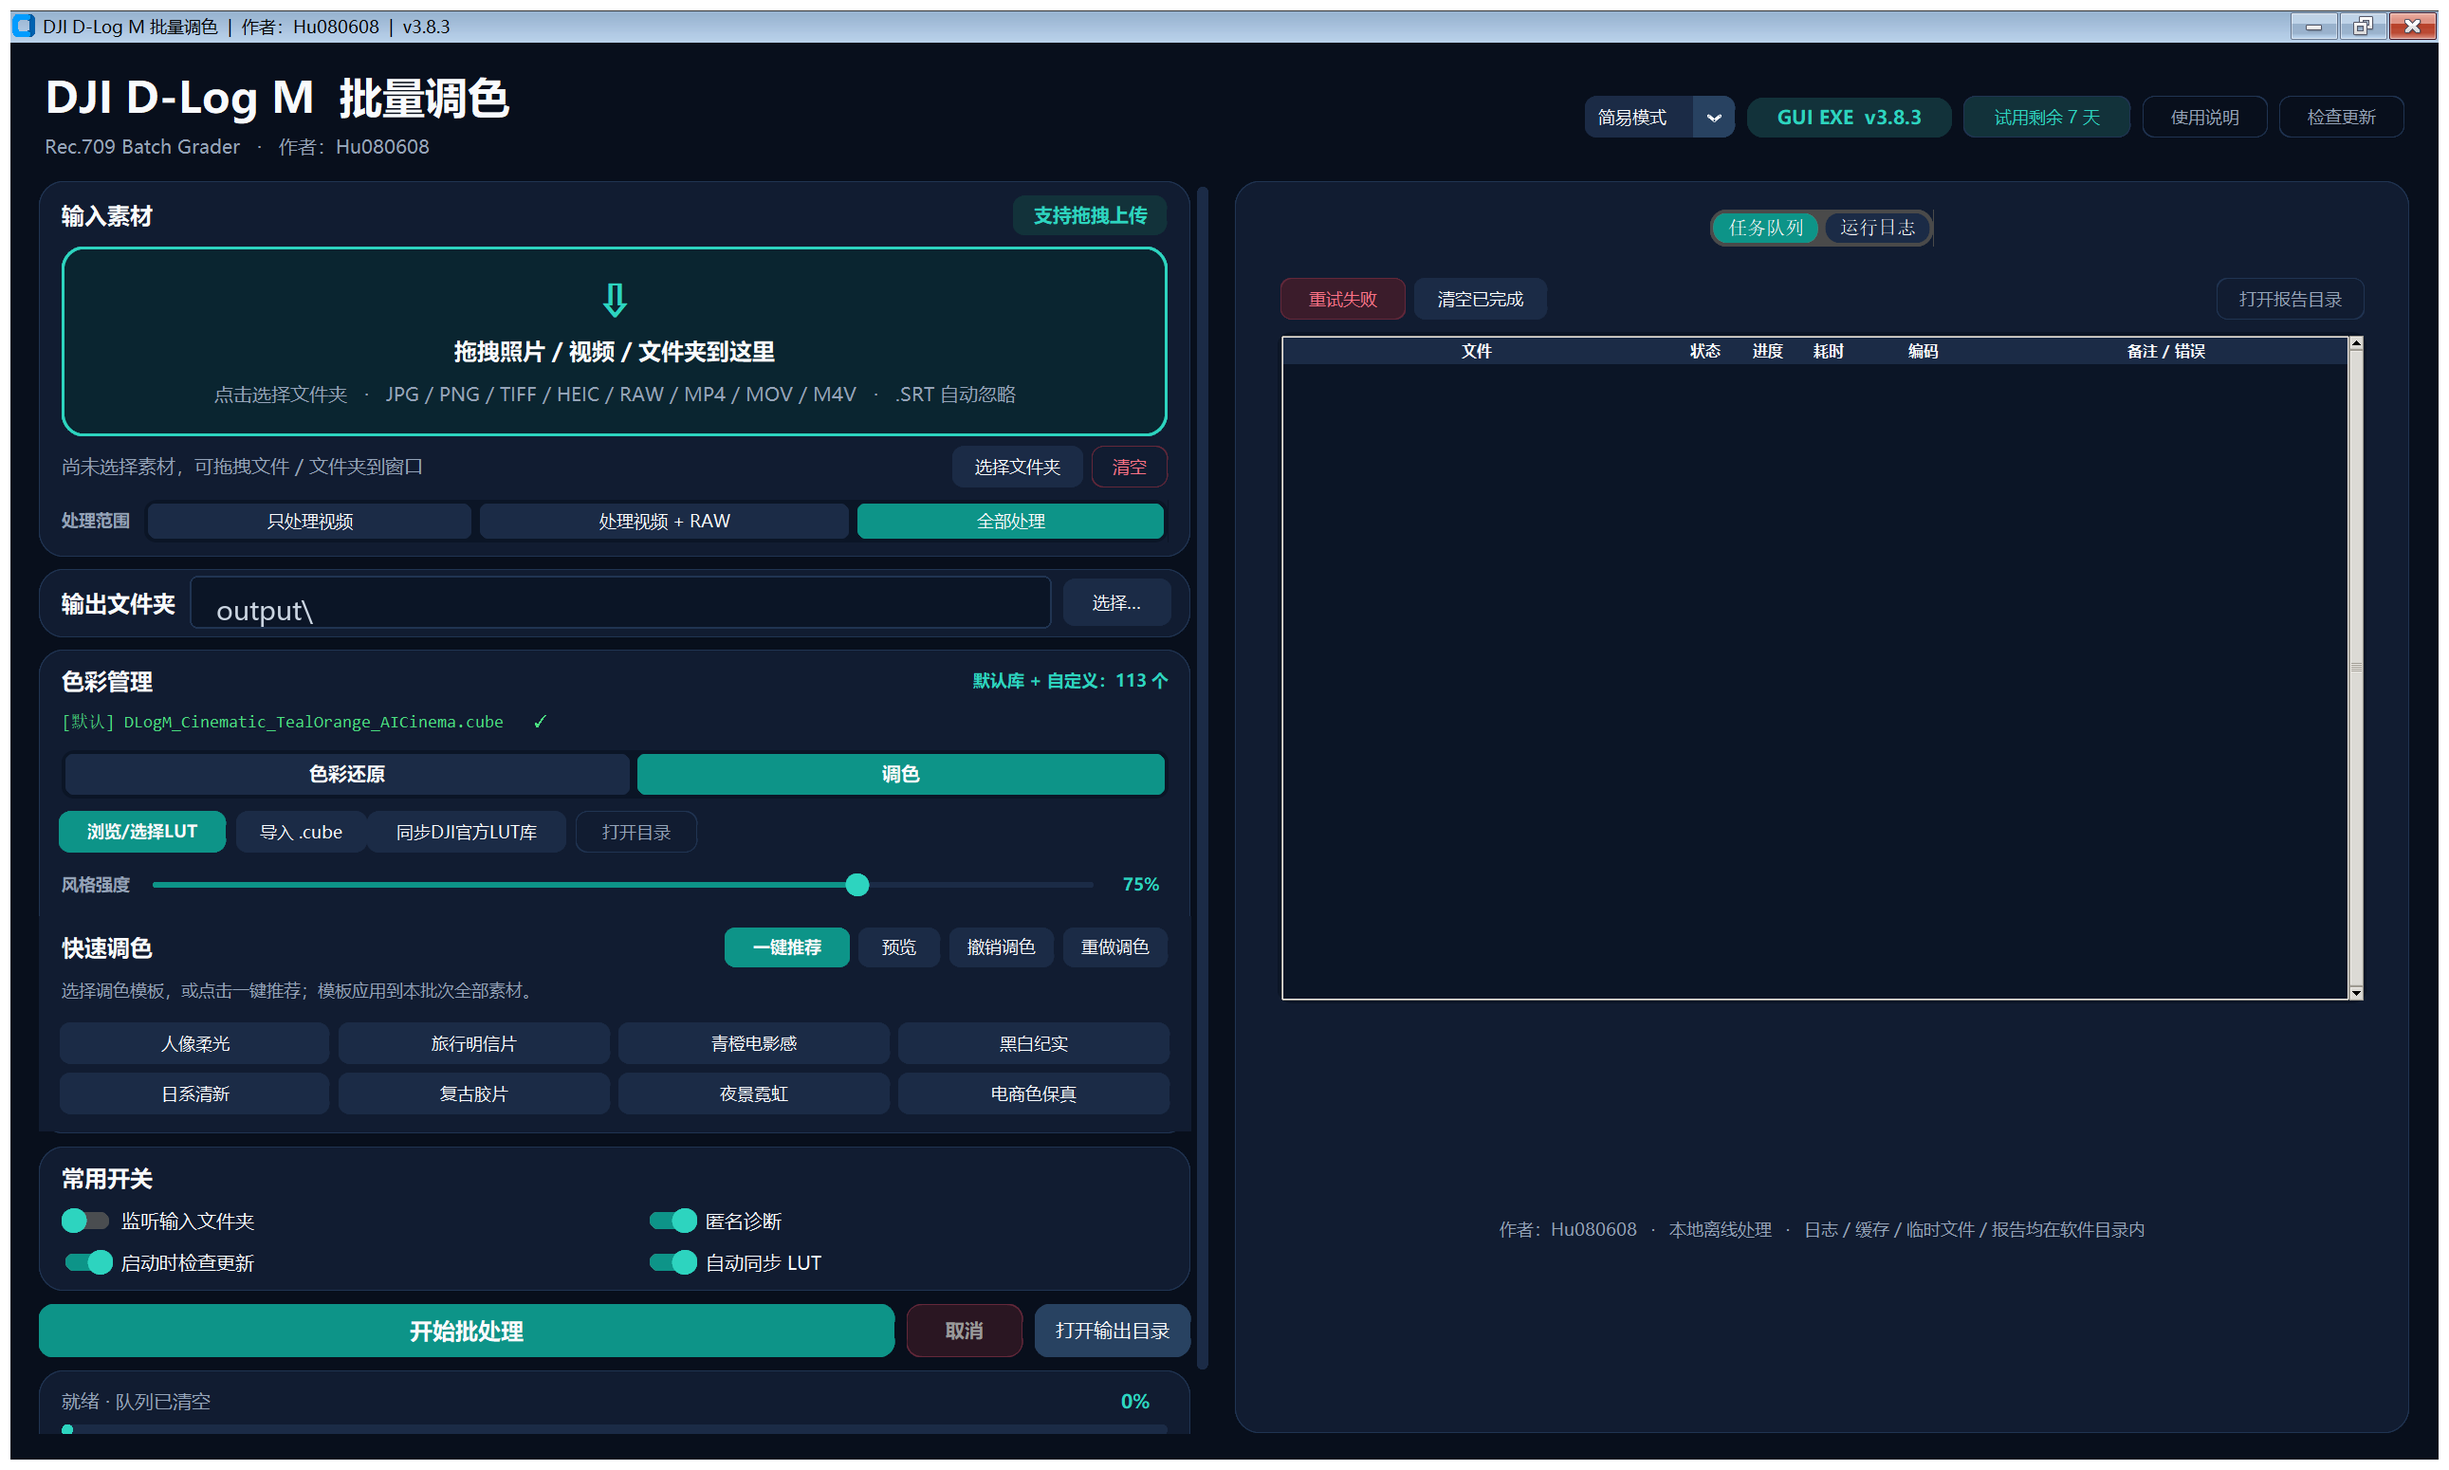
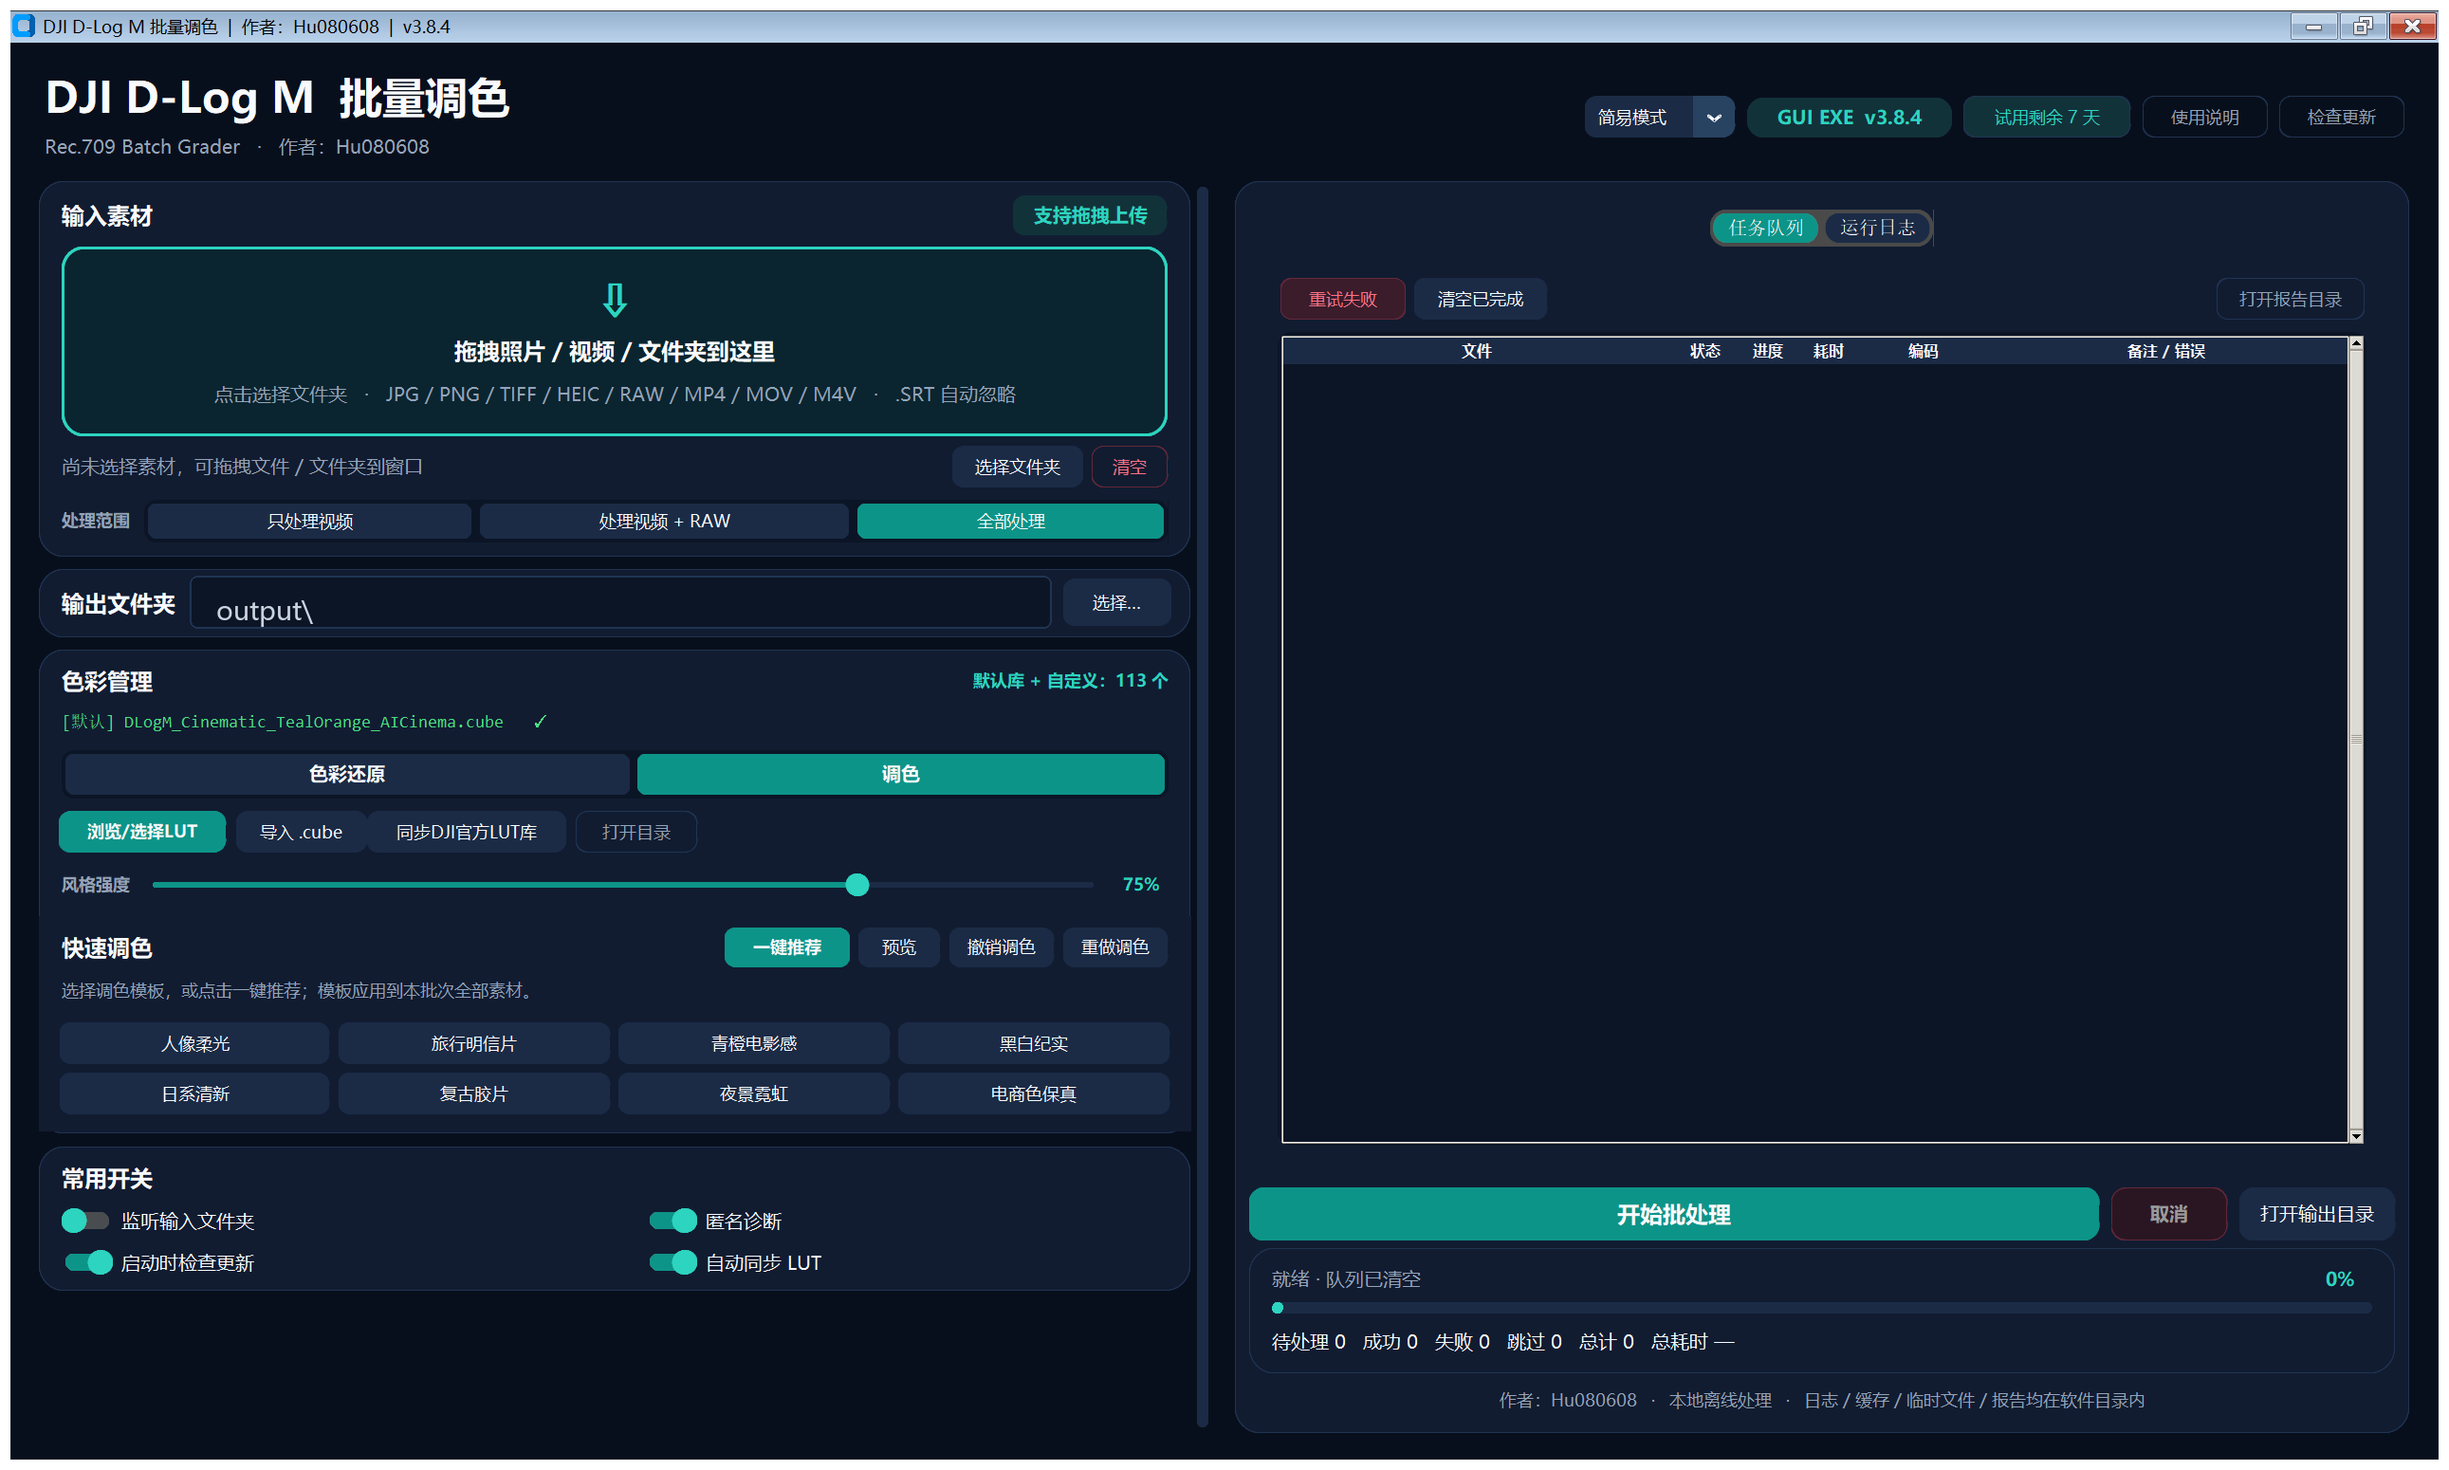
feat: move action and progress area to right bottom

Changed region(s): [[0.0, 0.8671, 0.4957, 0.991], [0.4957, 0.8052, 0.9605, 0.96], [0.9605, 0.6813, 0.9915, 0.7742]]

diff --git a/dlog_grader/gui.py b/dlog_grader/gui.py
@@ -352,16 +352,16 @@ class GraderGUI:
         )
         right.grid(row=0, column=1, sticky="nsew")
         right.grid_columnconfigure(0, weight=1)
-        right.grid_rowconfigure(1, weight=1)
+        right.grid_rowconfigure(0, weight=1)
 
         self._build_source_card(scroll)
         self._build_output_card(scroll)
         self._build_lut_card(scroll)
         self._build_settings_card(scroll)
         self._build_aux_card(scroll)
-        self._build_actions(scroll, row=5)
-        self._build_progress_card(scroll, row=6)
         self._build_log_panel(right)
+        self._build_actions(right, row=1)
+        self._build_progress_card(right, row=2)
         self._apply_mode_visibility()
         self.root.bind("<Control-z>", lambda _event: self._undo_lut())
         self.root.bind("<Control-y>", lambda _event: self._redo_lut())
@@ -913,7 +913,7 @@ class GraderGUI:
 
     def _build_actions(self, parent, row: int = 4) -> None:
         actions = ctk.CTkFrame(parent, fg_color="transparent")
-        actions.grid(row=row, column=0, sticky="ew", pady=(0, 9))
+        actions.grid(row=row, column=0, sticky="ew", padx=10, pady=(4, 5))
         actions.grid_columnconfigure(0, weight=1)
         self.start_btn = ctk.CTkButton(
             actions, text="开始批处理", height=38, corner_radius=11,
@@ -937,7 +937,7 @@ class GraderGUI:
 
     def _build_progress_card(self, parent, row: int = 5) -> None:
         card = self._card(parent)
-        card.grid(row=row, column=0, sticky="ew")
+        card.grid(row=row, column=0, sticky="ew", padx=10, pady=(0, 5))
         card.grid_columnconfigure(0, weight=1)
         top = ctk.CTkFrame(card, fg_color="transparent")
         top.grid(row=0, column=0, sticky="ew", padx=16, pady=(8, 2))
@@ -1066,7 +1066,7 @@ class GraderGUI:
             parent,
             text="作者：Hu080608   ·   本地离线处理   ·   日志 / 缓存 / 临时文件 / 报告均在软件目录内",
             font=FONT_SMALL, text_color=MUTED,
-        ).grid(row=1, column=0, pady=(0, 10))
+        ).grid(row=3, column=0, pady=(0, 10))
 
     def _maximize_window(self) -> None:
         try:

diff --git a/dlog_grader/__init__.py b/dlog_grader/__init__.py
@@ -1,3 +1,3 @@
 """DJI D-Log M batch LUT grading application."""
 
-__version__ = "3.8.3"
+__version__ = "3.8.4"

diff --git a/docs/RELEASE_NOTES.md b/docs/RELEASE_NOTES.md
@@ -1,10 +1,17 @@
-# DJI D-Log M Batch Grader v3.8.3
+# DJI D-Log M Batch Grader v3.8.4
 
 <!-- UPDATE_SUMMARY_START -->
-- “常用开关”在简易模式也常驻显示：监听输入、匿名诊断、启动检查更新、自动同步 LUT。
-- “撤销/重做”改名为“撤销调色/重做调色”。
-- “浏览/选择LUT”移到“导入 .cube”前；“同步DJI官方LUT库”始终可用。
+- 开始批处理、取消、打开输出目录和进度区移动到右侧底部。
+- 左侧只保留素材、色彩管理、处理设置和常用开关。
+- 启动按钮和进度反馈与任务队列同区显示。
 <!-- UPDATE_SUMMARY_END -->
+
+## 右侧底部操作区
+
+- “开始批处理”“取消”“打开输出目录”移动到任务队列下方。
+- 进度条、当前状态、统计和总耗时同步移动到右下角。
+- 左侧主要保留输入、输出、色彩管理和设置区域。
+- 任务队列、操作按钮和进度反馈集中在右侧，便于观察执行状态。
 
 ## 简易模式与按钮调整
 
@@ -182,8 +189,8 @@
 - 应用更新唯一来源：GitHub Releases。
 - 发布资产：
   ```text
-  DJI_DLogM_BatchGrader_Windows_x64_v3.8.3.zip
-  DJI_DLogM_BatchGrader_Windows_x64_v3.8.3.zip.sha256
+  DJI_DLogM_BatchGrader_Windows_x64_v3.8.4.zip
+  DJI_DLogM_BatchGrader_Windows_x64_v3.8.4.zip.sha256
   ```
 - GitHub 公开仓库仅用于软件下载、用户文档和问题反馈；源码、私钥和授权签发工具不上传。
 

diff --git a/docs/GITHUB_RELEASES.md b/docs/GITHUB_RELEASES.md
@@ -16,14 +16,14 @@ https://github.com/Hu080608/DJI-BatchGrader/releases
 每次发布使用一个版本标签，例如：
 
 ```text
-v3.8.3
+v3.8.4
 ```
 
 发布资产必须包含：
 
 ```text
-DJI_DLogM_BatchGrader_Windows_x64_v3.8.3.zip
-DJI_DLogM_BatchGrader_Windows_x64_v3.8.3.zip.sha256
+DJI_DLogM_BatchGrader_Windows_x64_v3.8.4.zip
+DJI_DLogM_BatchGrader_Windows_x64_v3.8.4.zip.sha256
 ```
 
 - ZIP 内根目录必须是 `DJI_DLogM_BatchGrader/`
@@ -81,7 +81,7 @@ DJI_DLogM_BatchGrader_Windows_x64_v3.8.3.zip.sha256
 ## 本地打包脚本
 
 ```powershell
-powershell -ExecutionPolicy Bypass -File tools\package_release.ps1 -Version v3.8.3
+powershell -ExecutionPolicy Bypass -File tools\package_release.ps1 -Version v3.8.4
 ```
 
 脚本会从 `dist\DJI_DLogM_BatchGrader` 生成 ZIP 和 `.sha256` 到 `release\`。公开 GitHub 仓库不包含源码，发布包由本地受控构建上传。

diff --git a/README.md b/README.md
@@ -1,7 +1,7 @@
 # DJI D-Log M Batch Grader
 
 **作者：Hu080608**  
-**版本：3.8.3**  
+**版本：3.8.4**  
 **平台：Windows 10/11 x64**  
 **许可：商业软件，买断授权**
 
@@ -69,7 +69,7 @@ https://github.com/Hu080608/DJI-BatchGrader/releases
 下载最新的：
 
 ```text
-DJI_DLogM_BatchGrader_Windows_x64_v3.8.3.zip
+DJI_DLogM_BatchGrader_Windows_x64_v3.8.4.zip
 ```
 
 ### 2. 解压并启动

diff --git a/README_EXE.md b/README_EXE.md
@@ -1,7 +1,7 @@
 # DJI D-Log M Batch Grader — Windows GUI EXE
 
 **作者：Hu080608**  
-**版本：3.8.3**  
+**版本：3.8.4**  
 **许可：商业软件，购买后授权使用**  
 **仅 Windows 10/11 x64 GUI 版本，无 CLI**
 
